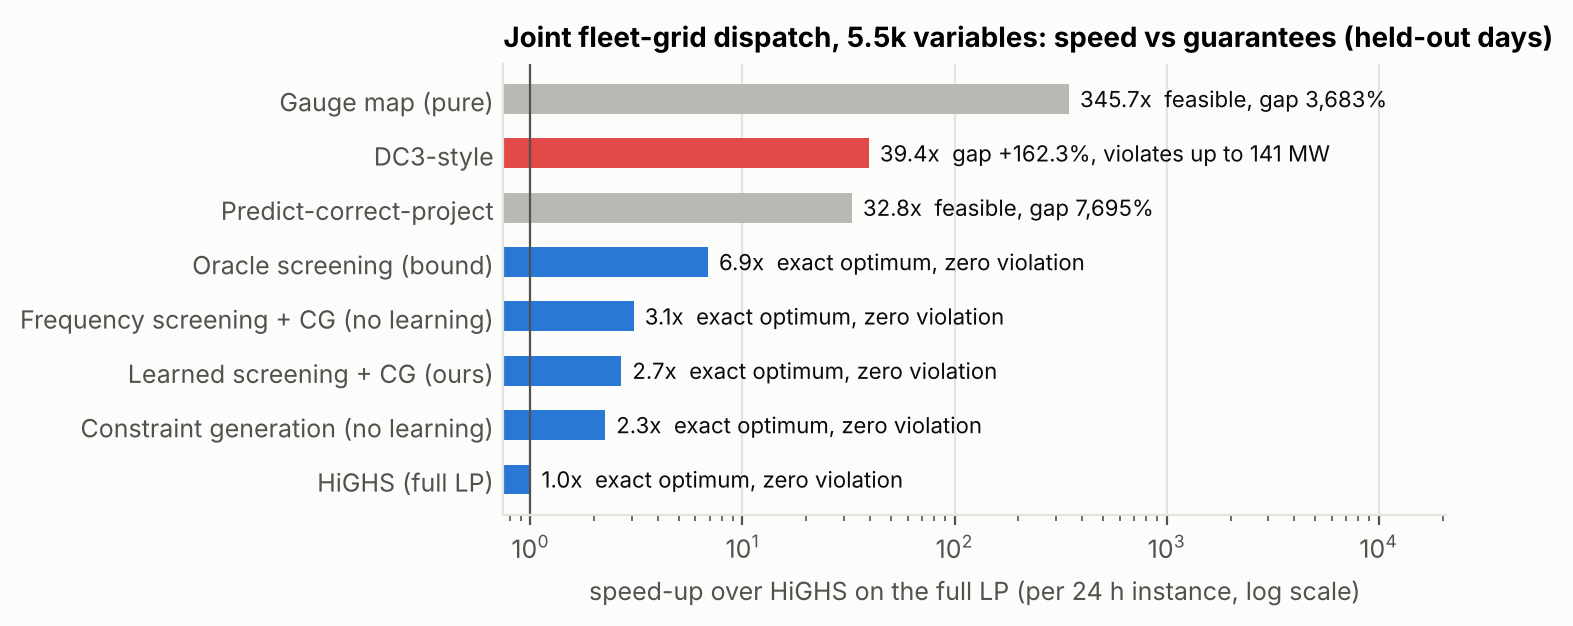
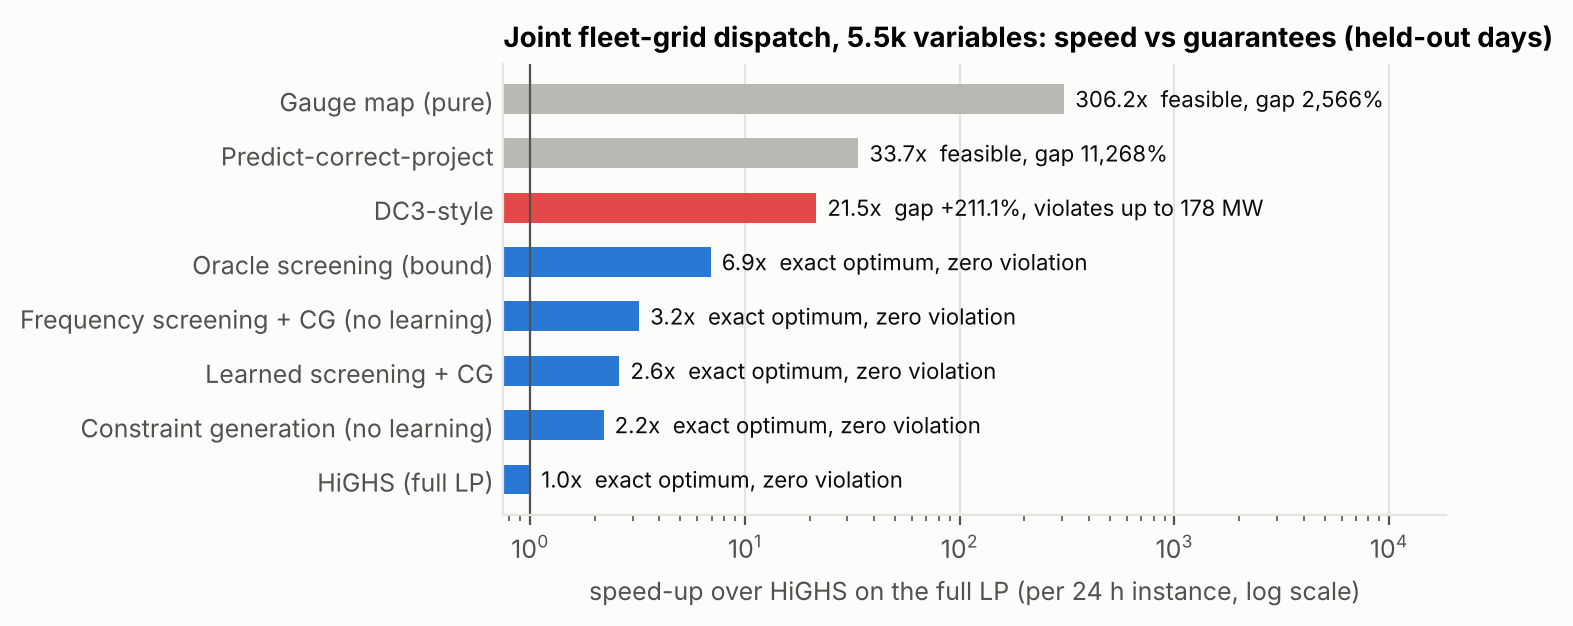
Phase 4 results: exact line screening wins; end-to-end hard-constraint learners hit a structural wall
- Full benchmark: 1,168 train / 296 held-out-day test / 74 OOD instances
- Exact (0 gap, 0 violation): constraint generation 2.2x, frequency
  screening 3.2x, learned screening 2.6x (overfits; adds nothing over the
  frequency screen), oracle bound 6.9x
- DC3-style: +211% gap, 178 MW violations. Gauge / ray projection: exactly
  feasible but 2,566-11,268% above optimal, because every interior point of a
  VOLL-slack OPF sheds load
- README / PLAN / claims updated: the brief's Z%/N x claim is not supported
  as written; P5 runs on exact screened HiGHS

Claude-Session: https://claude.ai/code/session_01SrTDtZK3qJy1ytgyx3S6oD

diff --git a/experiments/p4_solver.py b/experiments/p4_solver.py
@@ -137,7 +137,7 @@ def exact_benchmark(fam, screen, freq_mask, D, split, log):
     out = [dict(method="HiGHS (full LP)", split=split, n=len(b), gap_mean=0.0, gap_max=0.0, viol_max=0.0, feasible_frac=1.0,
                 ms_per_instance=full_ms, speedup=1.0, rounds_mean=1.0)]
     names = dict(cg="Constraint generation (no learning)", freq="Frequency screening + CG (no learning)",
-                 learned="Learned screening + CG (ours)", oracle="Oracle screening (bound)")
+                 learned="Learned screening + CG", oracle="Oracle screening (bound)")
     for key in ("cg", "freq", "learned", "oracle"):
         ms = 1e3 * np.mean(rec[key]) + (nn_ms if key == "learned" else 0.0)
         out.append(dict(method=names[key], split=split, n=len(b), gap_mean=float(np.mean(gaps)) if key == "learned" else 0.0,

diff --git a/README.md b/README.md
@@ -26,7 +26,10 @@ See **[PLAN.md](PLAN.md)**.
 - **Phase 3 done (grid value).** One year, 5 sites, 6 operating modes, a
   48 h-lookahead rolling horizon, and copper-plate replays for congestion cost.
   See the results below and [`paper/claims.md`](paper/claims.md).
-- The learned solver (phase 4) and the flexible-interconnection map (phase 5) are next.
+- **Phase 4 done (solvers), with a mostly negative result.** See below:
+  hard-constraint learning struggles on this problem, and the reason is
+  structural.
+- The flexible-interconnection map (phase 5) is next.
 
 ```bash
 pip install -e '.[dev]'
@@ -36,6 +39,7 @@ python experiments/p1_baseline_year.py    # full-year grid baseline -> results/p
 python experiments/p2_envelope.py         # fleet tables, envelope, Fig. 2a-c -> results/p2/, paper/figures/
 python experiments/p3_value.py            # 61 year-long runs, 4 workers, ~45 min -> results/p3/
 python experiments/p3_analyze.py          # deltas, X%/Y%, Fig. 3-4
+python experiments/p4_solver.py           # ~1.5k HiGHS-labelled instances, 3 learned solvers + screening, Fig. 5 (~35 min)
 ```
 
 ### Phase 1 baseline (RTS-GMLC 2020, no data center, 366 day-ahead OPFs)
@@ -142,3 +146,41 @@ Findings:
    (156 GWh/yr of involuntary load shedding). Co-optimisation cuts that
    shedding by 36%, but network-blind carbon signals *increase* it by 38–43%.
    This motivates the phase 5 flexible-interconnection map.
+
+### Phase 4: can a constraint-enforcing learned solver beat HiGHS here?
+
+The family is the 24 h fleet-grid DC-OPF at bus 313 (5.5k variables; HiGHS
+takes ~0.25 s). It is trained on 1,168 HiGHS-labelled day x envelope instances
+and tested on 296 held-out days plus 74 out-of-distribution instances
+(a 600 MW facility).
+
+![solvers](paper/figures/fig5_solver_benchmark.png)
+
+| Method (held-out days) | Speed-up | Optimality gap | Max violation |
+|---|---|---|---|
+| Oracle line screening (bound) | 6.9x | 0 | 0 |
+| **Frequency screening + constraint generation (no learning)** | **3.2x** | **0** | **0** |
+| Learned screening + constraint generation | 2.6x | 0 | 0 |
+| Constraint generation alone | 2.2x | 0 | 0 |
+| DC3-style (completion + correction) | 21x | +211% | 178 MW |
+| Predict-correct-project (DC3 + exact ray projection) | 34x | +11,268% | 0 |
+| Pure gauge map around an interior anchor | 306x | +2,566% | 0 |
+
+What we learned:
+1. **Exact methods win.** Screening line limits and then generating
+   constraints is optimal and feasible *by construction*, at 2–7x. A
+   binding-frequency heuristic (3.2x) beats our learned screen (2.6x), whose
+   recall drops to 77% on unseen days. The union of the two adds nothing.
+2. **End-to-end constraint enforcement hits a structural wall.** Equalities are
+   easy (completion by a *distributed slack*; a single-pivot completion piles
+   all prediction error onto one bus and fails). But every strictly interior
+   point of this LP must shed load at every bus, which is the only slack. So
+   any feasibility restoration that retracts toward an interior point (gauge
+   map, ray projection) is billed at the value of lost load. Feasible-by-construction
+   outputs land 2,566–11,268% above the optimal cost. DC3-style correction stays
+   cheap but violates line limits by up to 178 MW. FSNet-style L-BFGS
+   feasibility seeking stalls at 13–40 MW and is no faster than HiGHS.
+3. **The open problem this exposes:** *learning low-cost interior anchors*
+   (or anchor-free certificates) for OPF families with VOLL slack. Without
+   one, gauge and homeomorphic-projection guarantees are not useful at
+   operational scale. That is a concrete question for the Donti group.

diff --git a/paper/claims.md b/paper/claims.md
@@ -10,7 +10,12 @@ Shared setup: RTS-GMLC 2020, lines derated to 0.6x, one 300 MW LLM-inference fac
   (2.0% at 122, 0.7% at 313; +0.4% at coal-heavy 101). → `results/p3/summary.csv` `d_congestion_pct` → Fig. 3 (313)
 - **Y% (emissions):** following locational marginal emissions cuts the facility's hosting emissions by **9.6–12.3%**
   at buses 122/303/313 (5.7% at 101). Cost-optimal co-optimisation cuts them 2.4–3.2%. → `summary.csv` `d_emis_pct_hosting` → Fig. 4
-- Z%, N×: phase 4. Figure 1: phase 5.
+- **Z%, N× (solver):** the brief's original claim ("a constraint-enforcing learned solver matched the optimum within Z% at
+  N× speed with zero violations") is **not supported**. The supported version: exact line screening + constraint
+  generation matches the optimum **exactly (0%) with zero violations at 3.2×** (frequency screen; 6.9× with oracle
+  screening). End-to-end learned solvers are either infeasible (DC3-style, 178 MW) or feasible but 2,566–11,268% above the optimal
+  cost (gauge / ray projection). → `results/p4/benchmark_full.csv` → Fig. 5
+- Figure 1: phase 5.
 
 ## Phase 1: grid
 - At nameplate ratings RTS-GMLC is lightly congested: 4,114 binding line-hours/yr vs 22,328 at 0.6x. → `results/p1/summary.csv`
@@ -30,6 +35,20 @@ Shared setup: RTS-GMLC 2020, lines derated to 0.6x, one 300 MW LLM-inference fac
 - Average-CI following, shift-only, raises emissions +0.47% at bus 313. → `313_avg_ci_shift`
 - With a $50/t grid carbon price, price-following, LME-following and co-opt converge (−22.3 to −22.5 kt/yr). → rows `313_*_cp50`
 - Bus 207 (radial, 105 MW line at 0.6x) cannot host 300 MW: 156 GWh/yr of involuntary shedding. Co-opt cuts it 36%, while avg-CI and LME following raise it 43% and 38%. → rows `207_*` `d_grid_shed_gwh`
+
+## Phase 4: solvers
+- Problem: 24 h DC-OPF + one DC envelope at bus 313, 5,496 decision variables after completion; HiGHS 0.25 s/instance.
+  1,168 train / 296 test (held-out days) / 74 OOD (600 MW, fill 0.9). → `results/p4/meta_full.json`
+- Exact methods (0 gap, 0 violation, verified by assertion on every test instance): constraint generation 2.2×,
+  frequency screening 3.2×, learned screening 2.6× (test recall 77%, overfits), oracle 6.9×. OOD: 2.1× / 2.8× / 2.3× / 6.9×.
+  → `benchmark_full.csv`
+- A union of learned and frequency screens adds nothing: the learned rows are a subset of the frequency rows (calibration run, 120 test instances).
+- Single-pivot completion fails: about 2,000 MW of error lands on the pivot bus. A distributed-slack completion keeps |delta| ≤ 0.15. → `src/gridflex/solvers/problem.py`
+- A closed-form strictly interior anchor exists for 100% of instances (lowest-shedding member of a one-parameter
+  family, shedding 2–50%). Gauge/ray outputs are exactly feasible (tests), but land 2,566% (gauge) and 11,268% (ray) above the optimum
+  on average, because interior points must shed load (VOLL). → Fig. 5, `tests/test_solvers.py`
+- DC3-style: +211% mean gap, max violation 178 MW (test), 523 MW (OOD). FSNet-style L-BFGS feasibility seeking stalls
+  at 13–40 MW and takes 160–800 ms per instance (slower than HiGHS).
 
 ## Caveats to state
 - Single facility (price-taker regime). Multi-site and larger facilities come in phase 5.

diff --git a/PLAN.md b/PLAN.md
@@ -147,8 +147,8 @@ spread; SLO violation rate and p99 TTFT/TPOT; solver optimality gap, violations 
 | P1 Grid | RTS-GMLC loader, multi-period DC-OPF in HiGHS, LMP/LME extraction, unit tests (balance, line limits) | **done**. IEEE-118 moved to P5: pandapower's case118 has placeholder line ratings, so it needs NREL's extended-118 ratings and profiles |
 | P2 Fleet | trace loader, serving/power model, per-hour SLO check, envelope polytope export | **done**. Fig. 2a–c. Interactive shed is about 5% of load; batch shift scales with batch share |
 | P3 Value | 4 operating modes, a year rolled, Figs 3–4, **X% and Y% filled** | **done**. 5 sites × 6 modes, 48 h lookahead, copper-plate congestion cost. The signal matters more than flexibility; bus 207 is not hostable |
-| P4 Solver | dataset generation, DC3 + gauge (+ FSNet), Fig. 5, **Z% and N× filled** | 3 d |
-| P5 Map | RQ5 sweep, HiGHS verification, **Figure 1** | 2 d |
+| P4 Solver | dataset generation, DC3 + gauge (+ FSNet), Fig. 5, **Z% and N× filled** | **done**, mostly negative. Exact screening + constraint generation gives 0% gap at 3.2x (6.9x bound); end-to-end learners are infeasible or 2,566–11,268% above optimal. P5 runs on exact screened HiGHS |
+| P5 Map | RQ5 sweep, **Figure 1**. Run it on exact screened HiGHS (each instance exact, ~75 ms) over representative days, not on a learned surrogate | 2 d |
 | P6 Handoff | `paper/claims.md`, figures, CSVs, `related_work.md`, `refs.bib` → paper-orchestra | 0.5 d |
 
 **Minimum viable result** (if time is short): P1 + P3 on RTS-GMLC with a simple envelope
